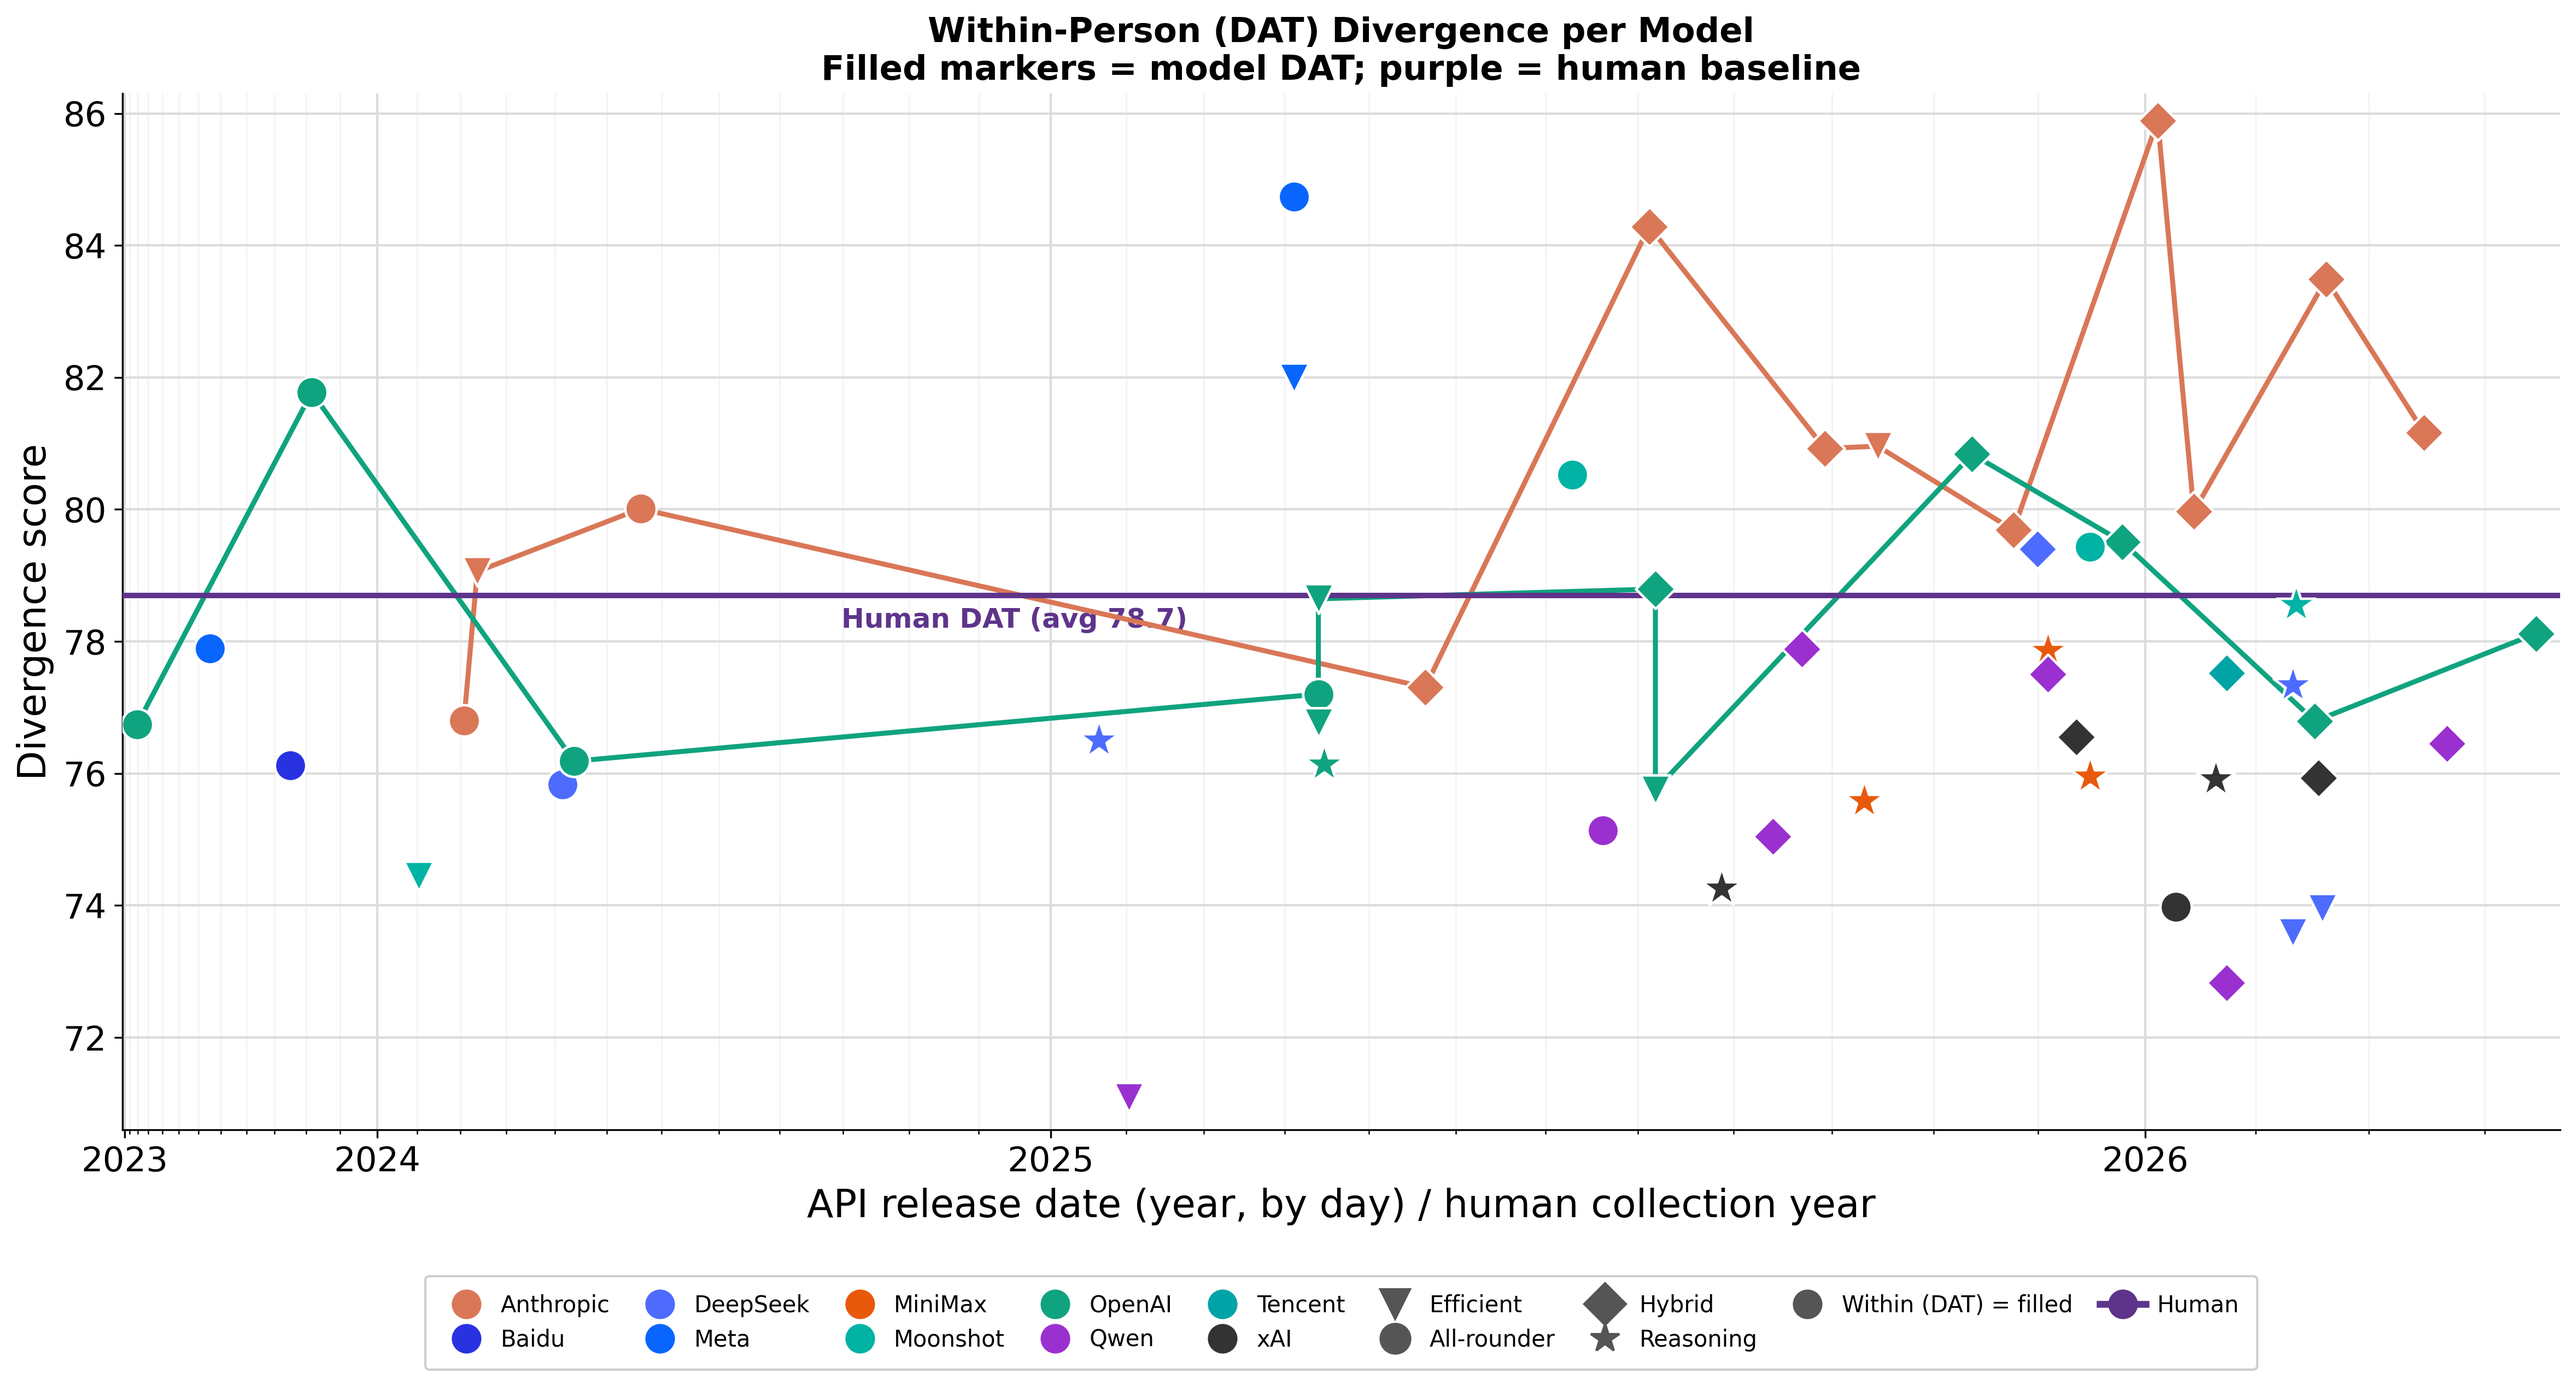
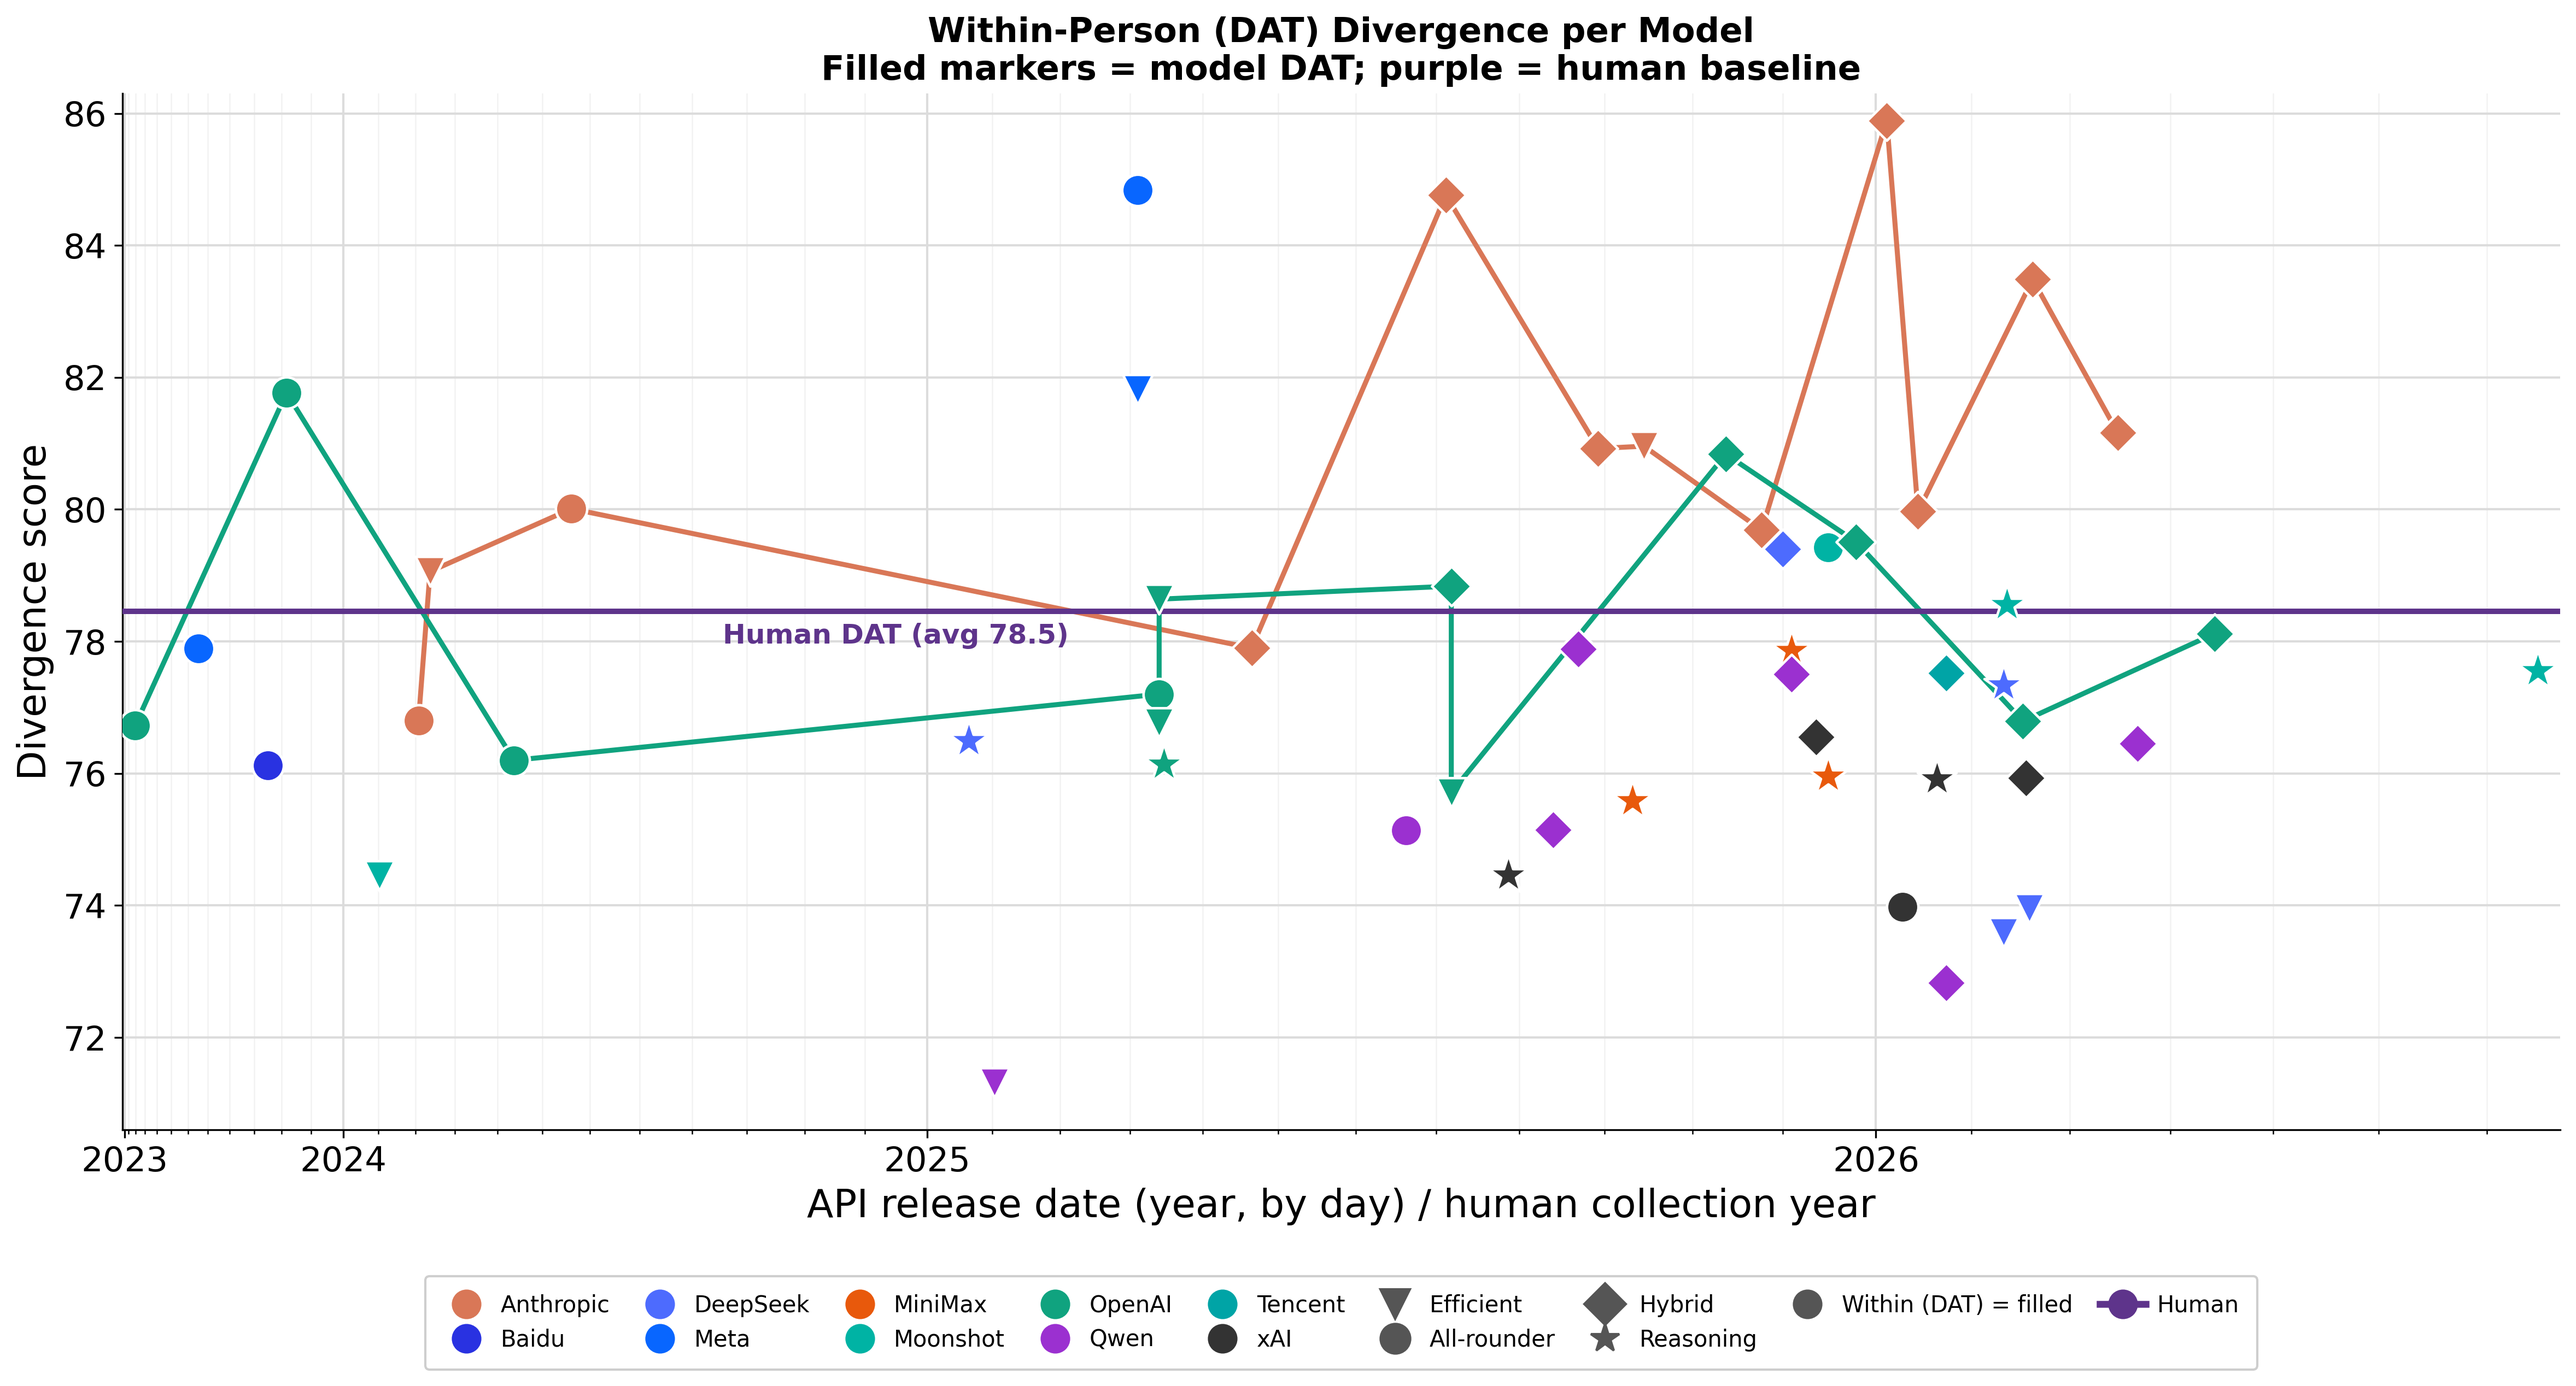
Over-time figures: add Kimi-K3 (2026-07-16, moonshot, reasoning; DAT 77.6 / between-unit 77.1)
- Regenerated both fig_within_vs_between_overlay.png and fig_within_dat_only.png with K3 as a new point.
- K3 scored with the exact Olson 2021 DAT scorer (words.txt-filtered GloVe 840B, 104,594-word vocab) and the repo's position-aware between-unit scorer; both validated to reproduce committed dat_score (mean abs diff 0.0007) and between_unit_posaware (0.0) before adding K3.
- Committed the underlying permonth_data.json / between_data.json / human_avg.json (were previously untracked local assets) + build_overtime_data.py so the figures are reproducible.

diff --git a/analysis/build_overtime_data.py b/analysis/build_overtime_data.py
@@ -1,0 +1,124 @@
+import csv, os, json, pickle, datetime, re, itertools, sys
+import numpy as np, scipy.spatial.distance as ssd
+from collections import defaultdict
+csv.field_size_limit(10**9)
+ROOT="/home/user/cn"
+BASE=f"{ROOT}/machine_data/processed/machine_final_baseline_midpoint.csv"   # committed dat_score per row
+MERGED=f"{ROOT}/machine_data/processed/machine_all_merged.csv"               # committed between_unit_posaware + metadata
+HUMAN=f"{ROOT}/human_data/processed/human_dat_all.csv"
+K3=f"{ROOT}/machine_data/raw_reasoning/topup_moonshot_k3.csv"
+REFDIR=f"{ROOT}/machine_data/between_unit_references"
+V=pickle.load(open("/home/user/repro/models/glove_olson.pickle","rb"))
+
+# ---- Olson DAT ----
+def validate(word):
+    clean=re.sub(r"[^a-zA-Z- ]+","",word).strip().lower()
+    if len(clean)<=1: return None
+    cands=[re.sub(r" +","-",clean),re.sub(r" +","",clean)] if " " in clean else [clean]+([re.sub(r"-+","",clean)] if "-" in clean else [])
+    for c in cands:
+        if c in V: return c
+    return None
+def dat(words,minimum=7):
+    u=[]
+    for w in words:
+        v=validate(w)
+        if v and v not in u: u.append(v)
+    if len(u)<minimum: return None
+    sub=u[:minimum]
+    return sum(ssd.cosine(V[a],V[b]) for a,b in itertools.combinations(sub,2))/(minimum*(minimum-1)/2)*100
+
+# ---- between-unit posaware ----
+_norm={}
+def nvec(w):
+    v=_norm.get(w)
+    if v is None:
+        raw=V.get(w)
+        if raw is None: return None
+        v=np.asarray(raw,float); v=v/(np.linalg.norm(v)+1e-12); _norm[w]=v
+    return v
+def cln(w):
+    c=re.sub(r'[^a-zA-Z- ]+','',str(w)).strip().lower()
+    return c if (c and len(c.split(' '))==1 and c in V) else None
+refm=[np.vstack([nvec(w) for w in (x.strip() for x in open(f"{REFDIR}/rank{k}_ref.txt")) if w and nvec(w) is not None]) for k in range(1,8)]
+fc=[dict() for _ in range(7)]
+def fs(c,k):
+    s=fc[k].get(c)
+    if s is None: s=float(np.mean(1-(refm[k]@nvec(c))))*100; fc[k][c]=s
+    return s
+def bpa(cells):
+    seq=[]
+    for w in cells:
+        c=cln(w)
+        if c: seq.append(c)
+        if len(seq)==7: break
+    if len(seq)<7: return None
+    return float(np.mean([fs(c,k) for k,c in enumerate(seq)]))
+
+def frac_year(y,m,d):
+    doy=datetime.date(y,m,d).timetuple().tm_yday
+    nd=366 if (y%4==0 and (y%100!=0 or y%400==0)) else 365
+    return y+(doy-0.5)/nd
+
+# ---- metadata from merged (year/mo/day/provider/intelligence/precision) ----
+info={}
+for row in csv.DictReader(open(MERGED,encoding='utf-8-sig',errors='replace')):
+    m=row['model_name']
+    if m not in info:
+        info[m]=(int(row['model_year']),int(row['model_month']),int(row['model_day']),row['provider'],row['intelligence'],row.get('date_precision','exact'))
+
+# ---- DAT recs: committed dat_score per model (baseline-midpoint) ----
+dat_by=defaultdict(list)
+for row in csv.DictReader(open(BASE)):
+    c=row.get("dat_score","")
+    if c not in ("","None"): dat_by[row["model"]].append(float(c))
+# ---- between recs: committed between_unit_posaware per model (merged) ----
+btw_by=defaultdict(list)
+for row in csv.DictReader(open(MERGED,encoding='utf-8-sig',errors='replace')):
+    v=row.get("between_unit_posaware","")
+    if v!="":
+        try: btw_by[row['model_name']].append(float(v))
+        except ValueError: pass
+
+# ---- Kimi-K3 scored identically ----
+NC=[f"noun_{i}" for i in range(10)]
+k3d=[];k3b=[]
+for row in csv.DictReader(open(K3)):
+    if row['model_name']!='Kimi-K3': continue
+    nouns=[row.get(c,"") for c in NC]
+    ds=dat(nouns); bs=bpa(nouns)
+    if ds is not None: k3d.append(ds)
+    if bs is not None: k3b.append(bs)
+dat_by['Kimi-K3']=k3d; btw_by['Kimi-K3']=k3b
+info['Kimi-K3']=(2026,7,16,'moonshot','reasoning','exact')
+print(f"K3 DAT n={len(k3d)} mean={np.mean(k3d):.2f} | between n={len(k3b)} mean={np.mean(k3b):.2f}")
+
+def recs(by):
+    out=[]
+    for m,sc in by.items():
+        if not sc or m not in info: continue
+        y,mo,d,p,intel,prec=info[m]
+        out.append([frac_year(y,mo,d),y,mo,d,p,intel,m,float(np.mean(sc)),prec])
+    return out
+dat_recs=recs(dat_by); btw_recs=recs(btw_by)
+
+# ---- human baselines (Olson DAT + between) ----
+SRC_YEAR={'olson_pnas2021':2022,'zunyi2024':2024,'hsbc2025':2025,'zunyi':2024,'btb':2025}
+Hc=[f"word_{i}" for i in range(1,11)]
+hyd=defaultdict(list); hyb=defaultdict(list); alld=[]; allb=[]
+for row in csv.DictReader(open(HUMAN,encoding='utf-8-sig',errors='replace')):
+    cells=[row.get(c,"") for c in Hc]
+    ds=dat(cells); bs=bpa(cells)
+    if ds is not None: alld.append(ds)
+    if bs is not None: allb.append(bs)
+    yy=SRC_YEAR.get(row.get('source',''))
+    if yy:
+        if ds is not None: hyd[yy].append(ds)
+        if bs is not None: hyb[yy].append(bs)
+hyd={y:float(np.mean(v)) for y,v in hyd.items()}; hyb={y:float(np.mean(v)) for y,v in hyb.items()}
+print("human DAT year:",{k:round(v,2) for k,v in sorted(hyd.items())})
+print("human grand DAT:",round(np.mean(alld),2),"between:",round(np.mean(allb),2))
+
+json.dump({"recs":dat_recs,"human_year":hyd},open("/home/user/permonth_data.json","w"))
+json.dump({"recs":btw_recs,"human_year":hyb},open("/home/user/between_data.json","w"))
+json.dump({"human_dat_mean":float(np.mean(alld)),"human_between_mean":float(np.mean(allb))},open("/home/user/human_avg.json","w"))
+print(f"dat_recs={len(dat_recs)} btw_recs={len(btw_recs)}")
